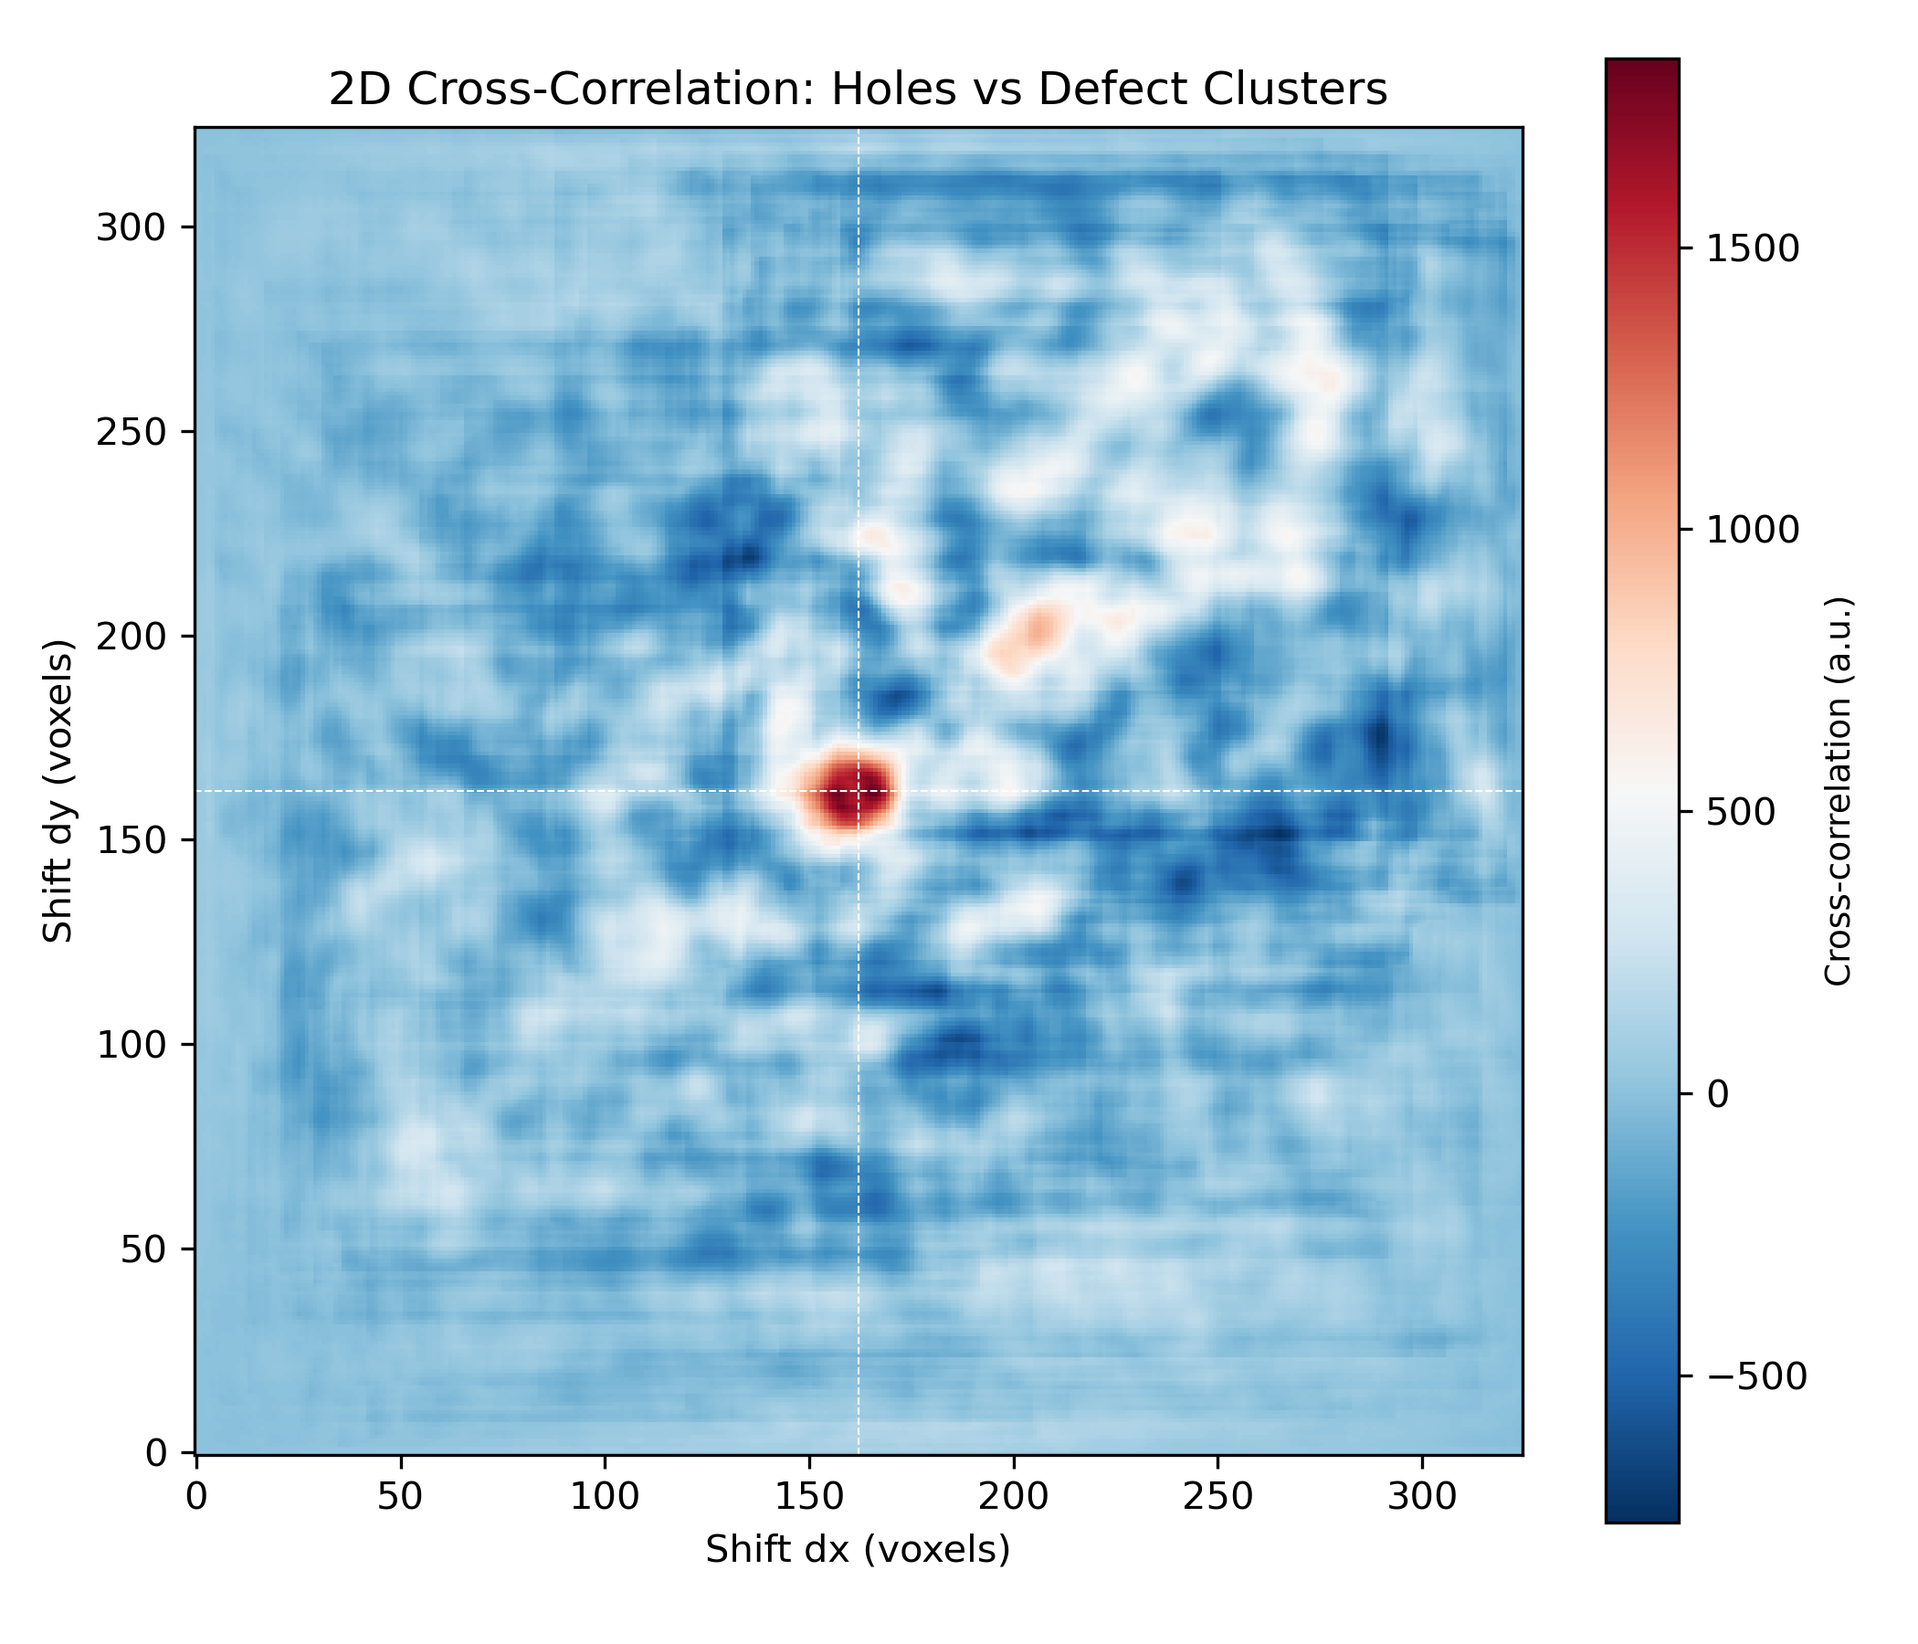
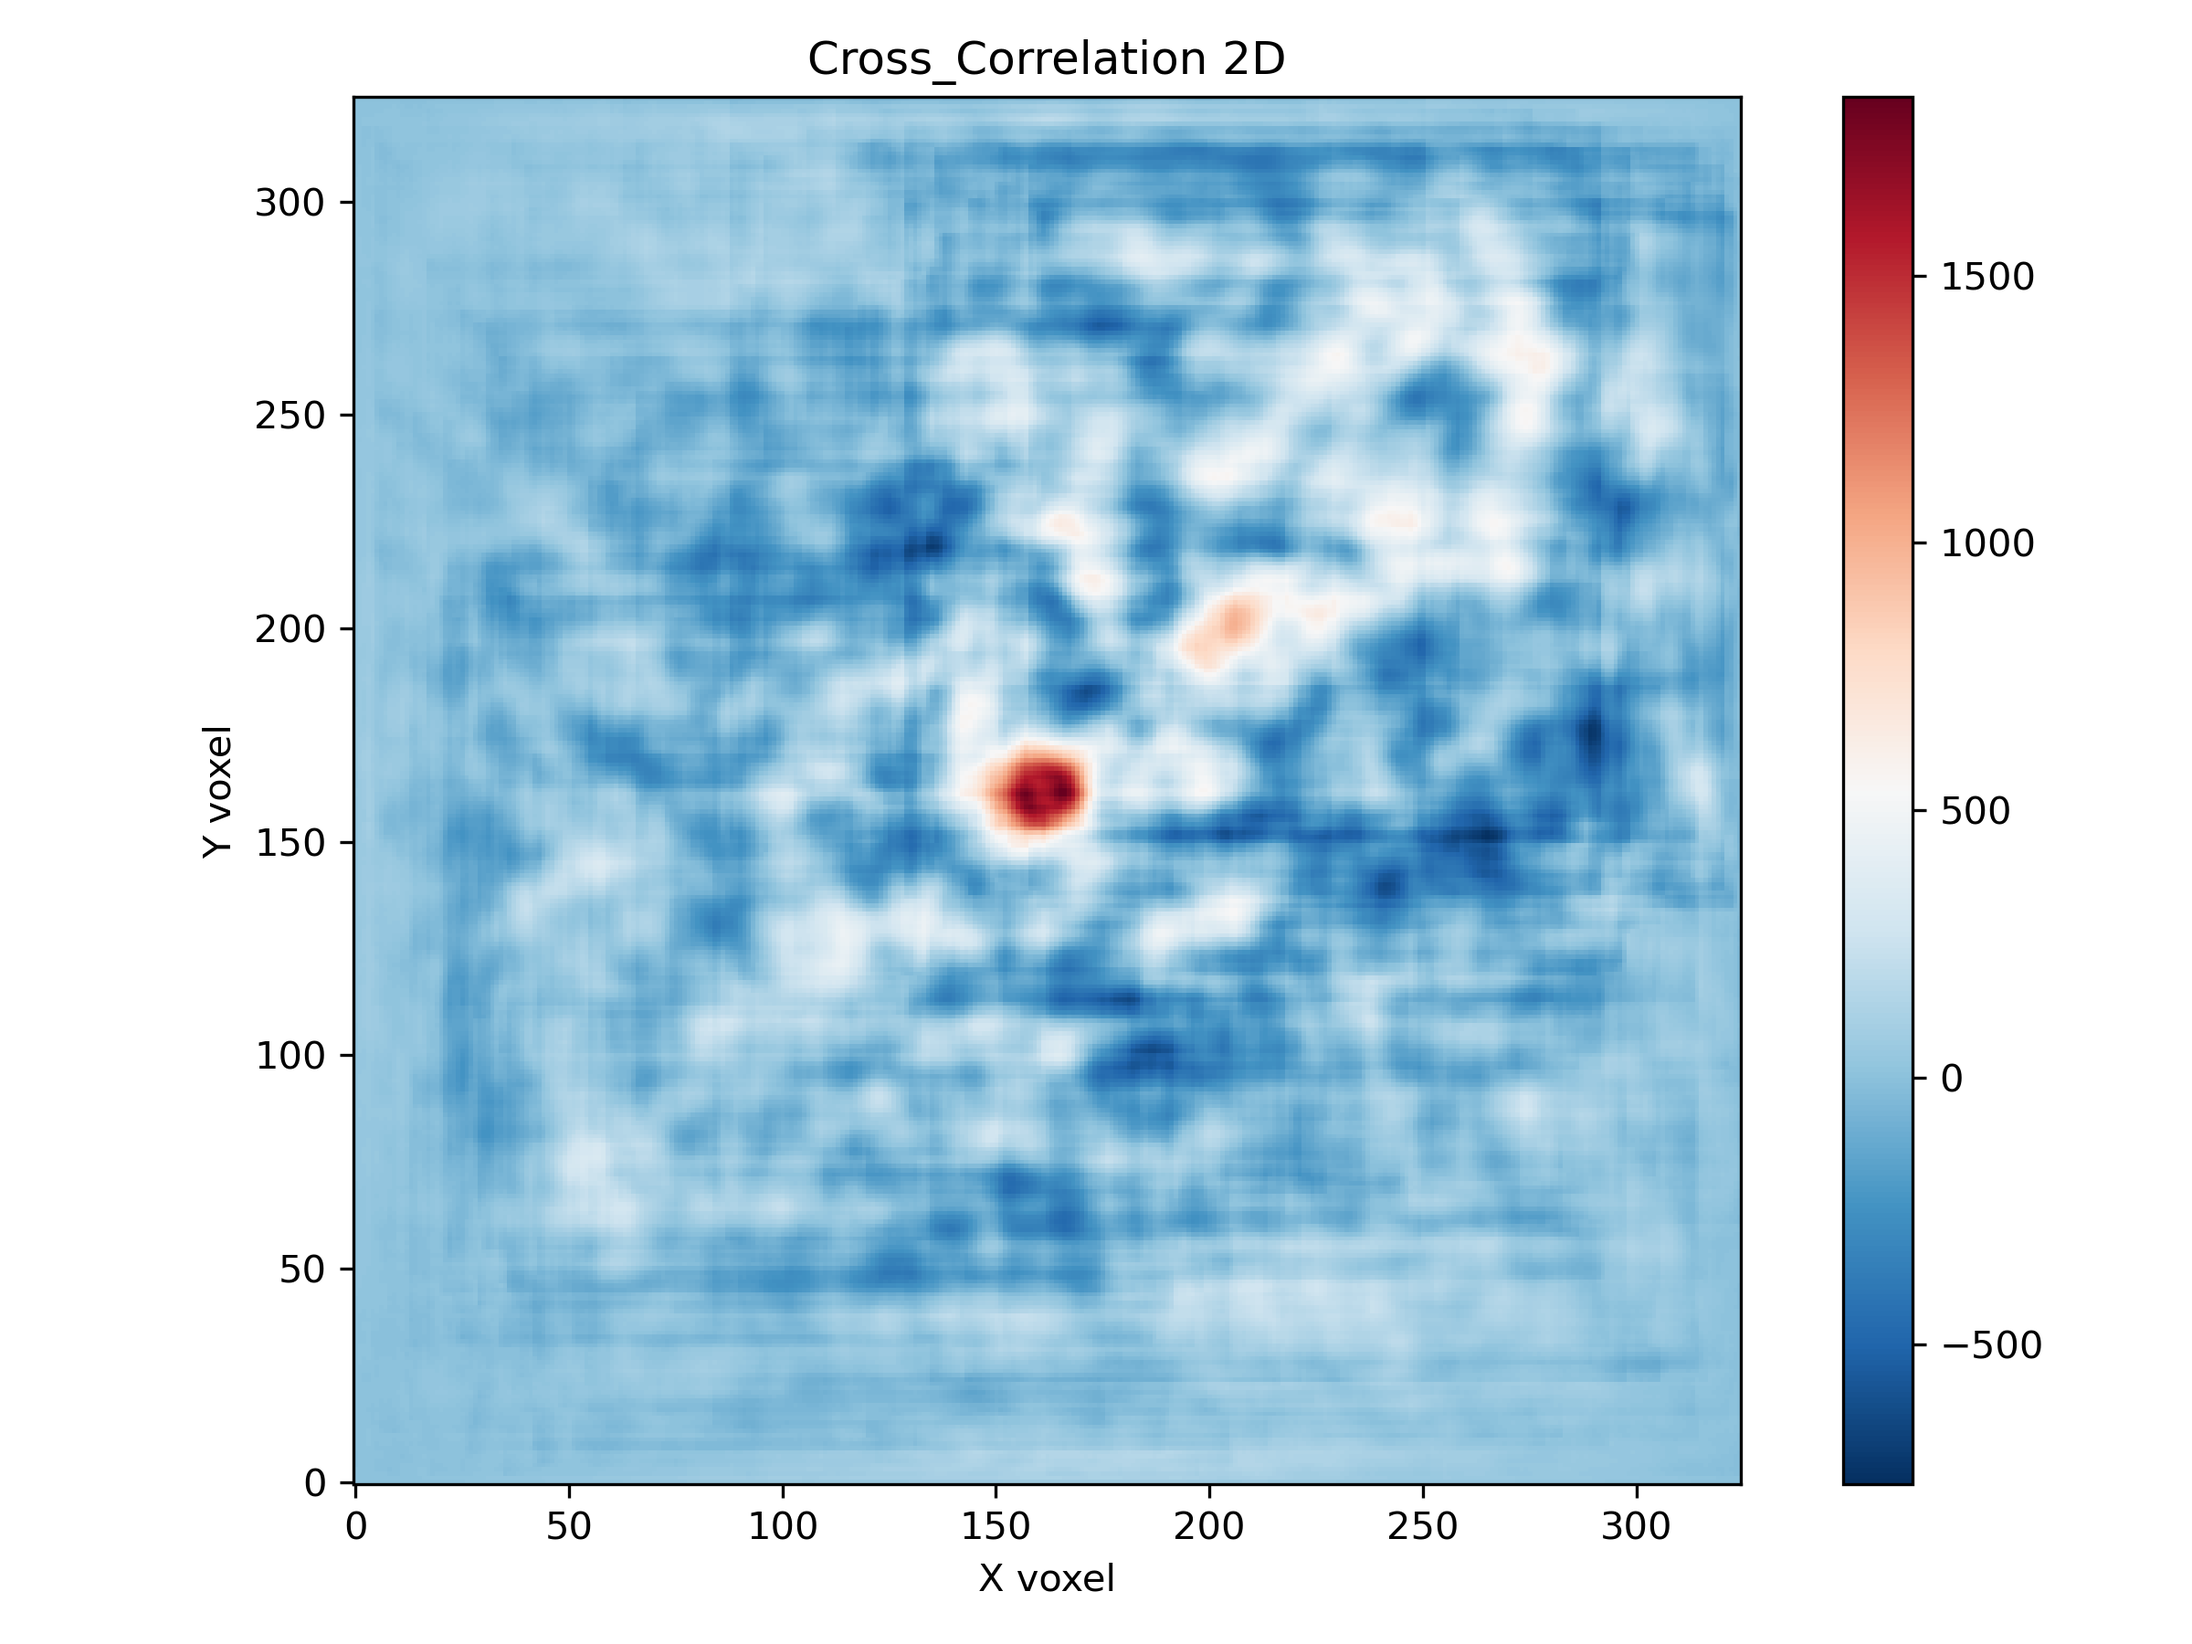
analysis: separate cross-correlation computation from plotting

diff --git a/analysis/projection_maps.py b/analysis/projection_maps.py
@@ -134,7 +134,7 @@ def build_cumulative_maps(trajectory,
 # Plotting
 # ------------------------------------------------------------
 
-def plot_map(image, title, cmap="inferno"):
+def plot_map(image, title, cmap="inferno", colorbar_label=""):
     plt.figure(figsize=(8, 6))
     plt.imshow(image.T, origin="lower", cmap=cmap)
     plt.colorbar()
@@ -149,62 +149,44 @@ def plot_map(image, title, cmap="inferno"):
 # Cross-Correlation Analysis
 # ------------------------------------------------------------
 
-def analyze_cross_correlation(holes=None, clusters=None):
-    """
-    Compute the 2D cross-correlation between the hole activity map
-    and the defect cluster map, then plot:
-      1. The full 2D cross-correlation
-      2. Its radial profile — correlation as a function of distance
-         between hole and defect cluster centres
-    """
+def compute_cross_correlation(holes=None, clusters=None):
+    from scipy.signal import fftconvolve
+
     if holes is None:
         holes    = np.load("analysis/cumulative_hole_map.npy")
     if clusters is None:
         clusters = np.load("analysis/cumulative_cluster_map.npy")
 
-    from scipy.signal import fftconvolve
-
-    # normalise each map to zero mean and unit std so the
-    # cross-correlation reflects structure, not scale
     def normalise(m):
         m = m - m.mean()
         return m / m.std()
 
-    h = normalise(holes)
-    c = normalise(clusters)
+    xcorr = fftconvolve(normalise(holes), normalise(clusters)[::-1, ::-1], mode="full")
 
-    # fftconvolve with flipped kernel = cross-correlation
-    xcorr = fftconvolve(h, c[::-1, ::-1], mode="full")
-
-    # --- plot 1: full 2D cross-correlation ---
-    plt.figure(figsize=(7, 6))
-    plt.imshow(xcorr.T, origin="lower", cmap="RdBu_r")
-    plt.colorbar().set_label("Cross-correlation (a.u.)", fontsize=9)
-    plt.title("2D Cross-Correlation: Holes vs Defect Clusters")
-    plt.xlabel("Shift dx (voxels)")
-    plt.ylabel("Shift dy (voxels)")
-    # mark the centre (zero shift)
     cx, cy = np.array(xcorr.shape) // 2
-    plt.axhline(cy, color="white", linewidth=0.5, linestyle="--")
-    plt.axvline(cx, color="white", linewidth=0.5, linestyle="--")
-    plt.tight_layout()
-    plt.savefig("cross_correlation_2d.png", dpi=300)
-    print("Saved: cross_correlation_2d.png")
+    peak   = np.unravel_index(np.argmax(xcorr), xcorr.shape)
+    print(f"Cross-correlation peak at shift: dx={peak[0]-cx}, dy={peak[1]-cy} voxels")
+    print(f"  = {(peak[0]-cx)*VOXEL_EDGE:.2f} Å, {(peak[1]-cy)*VOXEL_EDGE:.2f} Å")
 
-    # --- plot 2: radial profile ---
-    # compute distance of every pixel from the centre
-    nx, ny = xcorr.shape
-    x = np.arange(nx) - cx
-    y = np.arange(ny) - cy
+    return xcorr
+
+
+def plot_cross_correlation(xcorr):
+    cx, cy = np.array(xcorr.shape) // 2
+
+    # 2D map
+    plot_map(xcorr, "Cross_Correlation 2D", cmap="RdBu_r",
+             colorbar_label="Cross-correlation (a.u.)")
+
+    # radial profile
+    x = np.arange(xcorr.shape[0]) - cx
+    y = np.arange(xcorr.shape[1]) - cy
     X, Y = np.meshgrid(x, y, indexing="ij")
-    R = np.sqrt(X**2 + Y**2).astype(int)
+    R    = np.sqrt(X**2 + Y**2).astype(int)
 
-    max_r = min(cx, cy)
-    radii  = np.arange(0, max_r)
-    radial_mean = np.array([
-        xcorr[R == r].mean() if np.any(R == r) else 0
-        for r in radii
-    ])
+    max_r       = min(cx, cy)
+    radii       = np.arange(0, max_r)
+    radial_mean = np.array([xcorr[R == r].mean() if np.any(R == r) else 0 for r in radii])
 
     plt.figure(figsize=(7, 4))
     plt.plot(radii, radial_mean)
@@ -215,11 +197,6 @@ def analyze_cross_correlation(holes=None, clusters=None):
     plt.tight_layout()
     plt.savefig("cross_correlation_radial.png", dpi=300)
     print("Saved: cross_correlation_radial.png")
-
-    # print where the peak is
-    peak = np.unravel_index(np.argmax(xcorr), xcorr.shape)
-    print(f"Cross-correlation peak at shift: dx={peak[0]-cx}, dy={peak[1]-cy} voxels")
-    print(f"  = {(peak[0]-cx)*VOXEL_EDGE:.2f} Å, {(peak[1]-cy)*VOXEL_EDGE:.2f} Å")
 
 # ------------------------------------------------------------
 # Main
@@ -238,7 +215,11 @@ if __name__ == "__main__":
     # np.save("analysis/cumulative_hole_map.npy",    cumulative_holes)
     # np.save("analysis/cumulative_cluster_map.npy", cumulative_clusters)
 
-    # plot_map(cumulative_holes,    "Time-Integrated Hole Activity")
-    # plot_map(cumulative_clusters, "Time-Integrated Defect Cluster Activity")
+    cumulative_holes    = np.load("analysis/cumulative_hole_map.npy")
+    cumulative_clusters = np.load("analysis/cumulative_cluster_map.npy")
 
-    analyze_cross_correlation()
+    plot_map(cumulative_holes,    "Time-Integrated Hole Activity")
+    plot_map(cumulative_clusters, "Time-Integrated Defect Cluster Activity")
+
+    xcorr = compute_cross_correlation()
+    plot_cross_correlation(xcorr)
